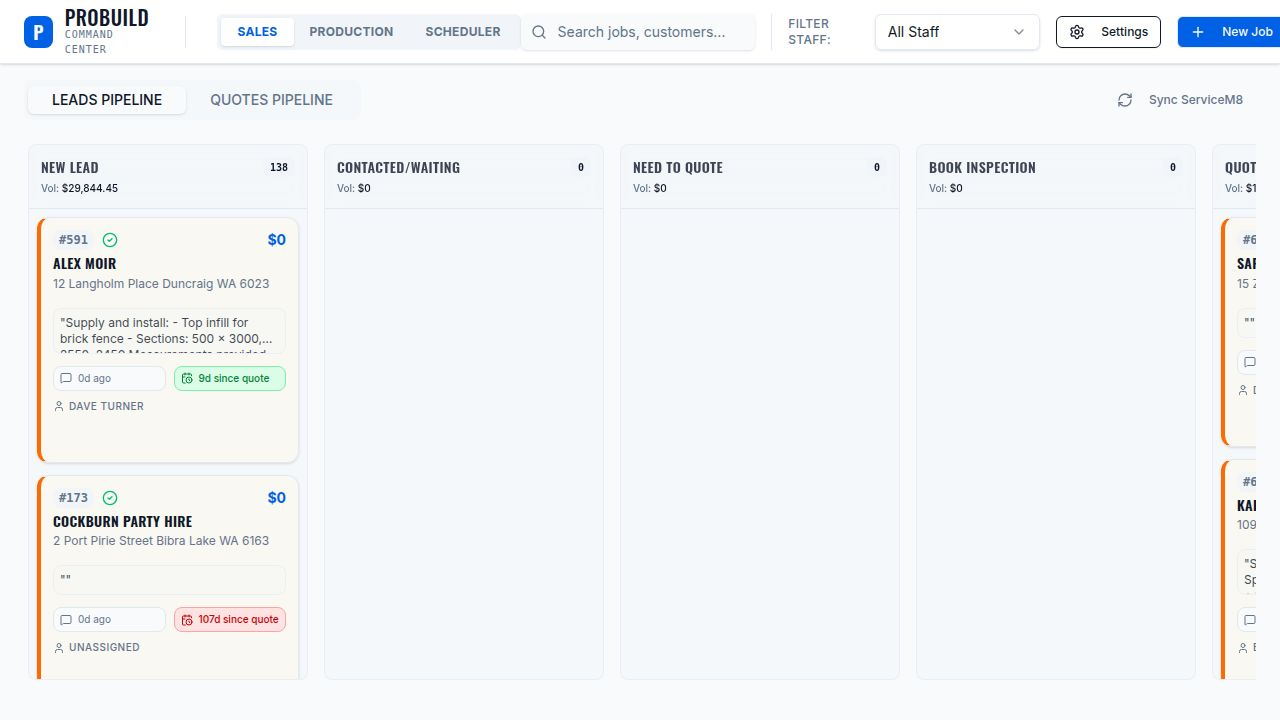
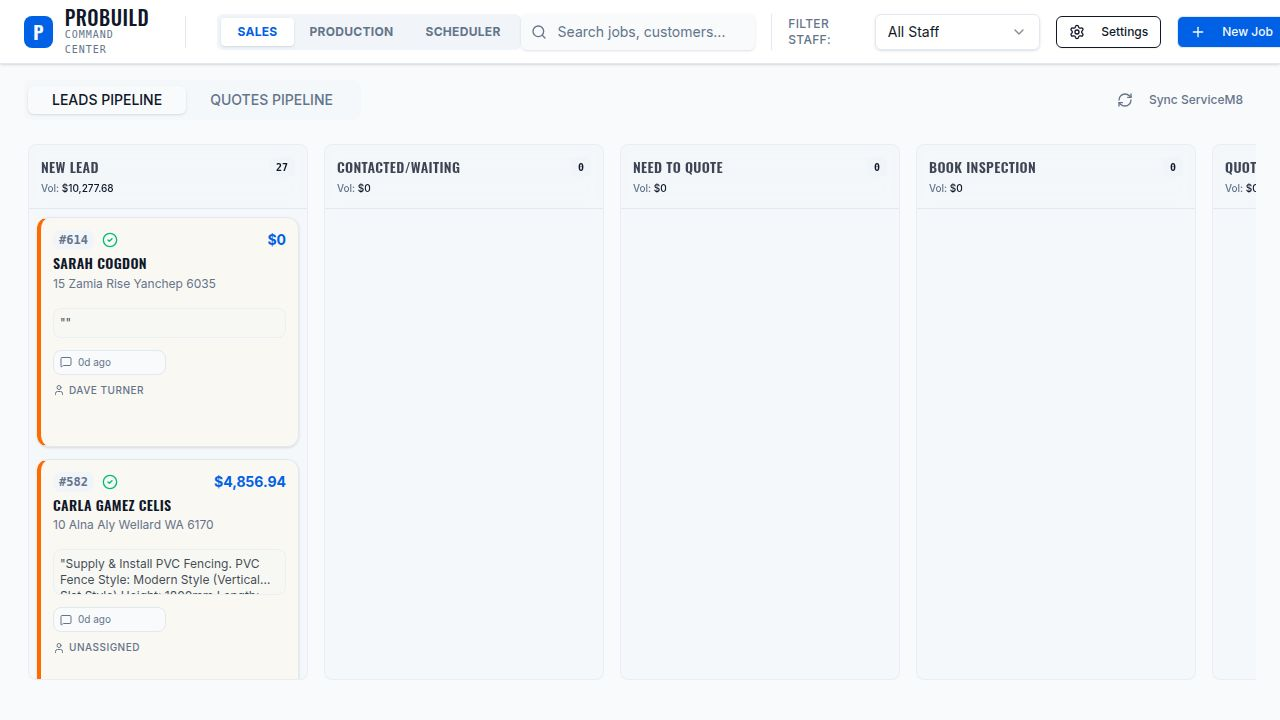
Refine sales pipeline to better categorize quote jobs
Update job status mapping for quotes, differentiating between fresh (0-3 days) and awaiting reply (4+ days) within the sales pipeline.

Replit-Commit-Author: Agent
Replit-Commit-Session-Id: d99b27b2-d919-424f-981c-93a4d9886fea
Replit-Commit-Checkpoint-Type: full_checkpoint
Replit-Commit-Event-Id: 62ae16c0-b1f6-4824-8dc1-fccdfb3e1d18
Replit-Commit-Screenshot-Url: https://storage.googleapis.com/screenshot-production-us-central1/026fd907-4917-4962-90e9-411c81733828/d99b27b2-d919-424f-981c-93a4d9886fea/WMyWITG
Replit-Helium-Checkpoint-Created: true

diff --git a/server/servicem8.ts b/server/servicem8.ts
@@ -442,13 +442,20 @@ export class ServiceM8Client {
     let { lifecyclePhase, schedulerStage, appStatus } = this.mapServiceM8Status(sm8Job.status);
     
     // For Quote phase jobs:
-    // - Jobs with quote_sent=true go to "quote_sent" column
+    // - Jobs with quote_sent=true: assign to quotes pipeline columns based on days since sent
+    //   - 0-3 days: "fresh" (Fresh column)
+    //   - 4+ days: "awaiting_reply" (Awaiting Reply column)
     // - Jobs without quote sent go to "new_lead" column
     // - Terminal statuses (unsuccessful/complete) keep their status and are excluded
     if (lifecyclePhase === 'quote' && appStatus !== 'unsuccessful') {
       if (hasQuoteSent) {
         schedulerStage = 'quotes_sent';
-        appStatus = 'quote_sent';
+        // Assign to quotes pipeline column based on days since quote was sent
+        if (daysSinceQuoteSent !== null && daysSinceQuoteSent <= 3) {
+          appStatus = 'fresh';  // Fresh (0-3 Days)
+        } else {
+          appStatus = 'awaiting_reply';  // Default for older quotes
+        }
       } else {
         // No quote sent yet - this is a new lead
         appStatus = 'new_lead';

diff --git a/client/src/pages/CommandCenter.tsx b/client/src/pages/CommandCenter.tsx
@@ -213,11 +213,13 @@ export default function CommandCenter() {
   });
 
   // Quote phase jobs for Sales section (orange cards)
-  // Include: new_lead (no quote sent yet) and quote_sent (quote has been sent)
+  // Include: new_lead (no quote sent), fresh (0-3 days), awaiting_reply (4+ days)
+  // Also include any quotes pipeline status for flexibility
   // Exclude: unsuccessful, complete (terminal statuses)
   const quoteJobs = filteredJobs.filter(job => 
     job.lifecyclePhase === 'quote' && 
-    (job.status === 'quote_sent' || job.status === 'new_lead')
+    job.status !== 'unsuccessful' && 
+    job.status !== 'complete'
   );
   
   // Work order phase jobs for Scheduler/Production (blue cards)
